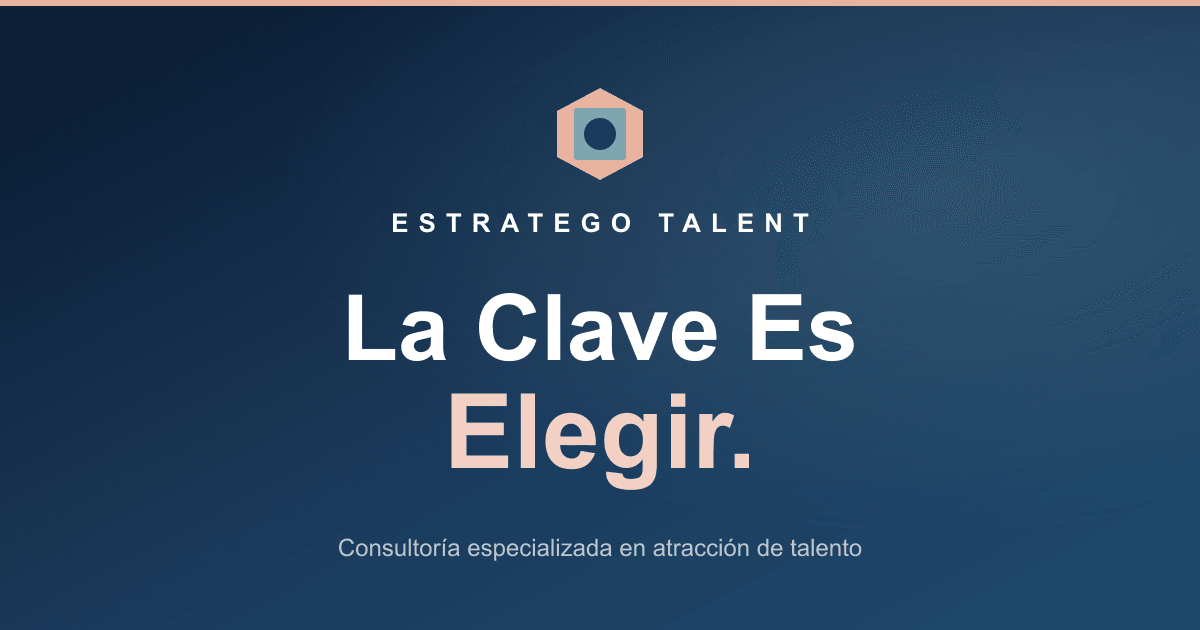
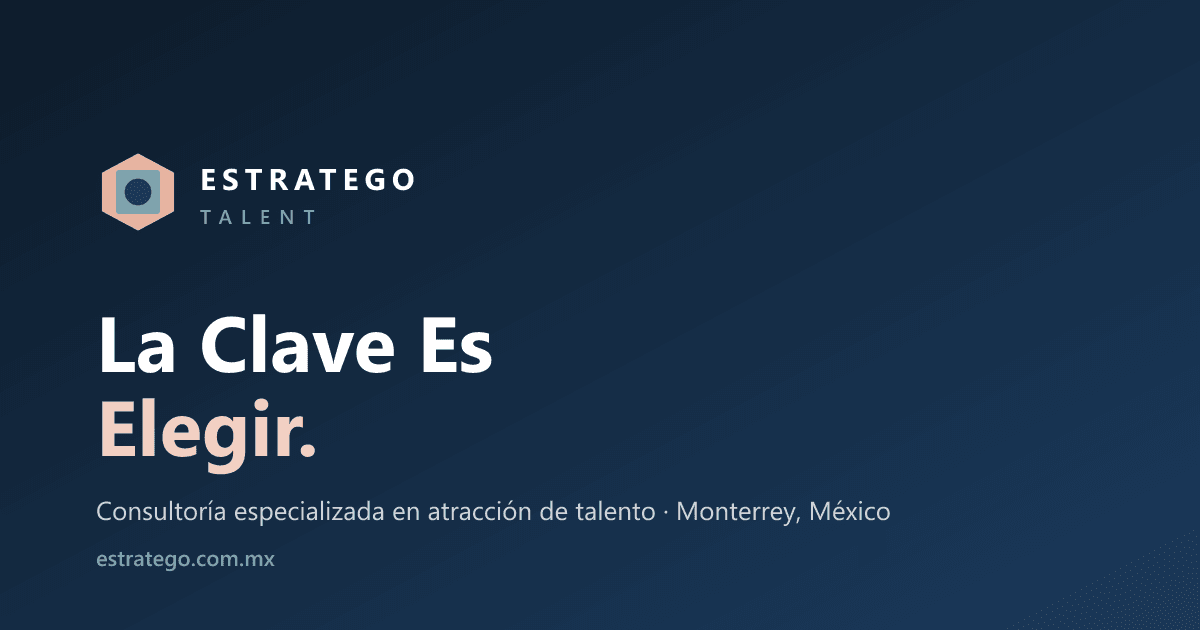
Reemplazar copy obsoleto 'No llenamos vacantes' por 'La Clave Es Elegir' en share/meta, OG images y body copy

diff --git a/index.html b/index.html
@@ -13,18 +13,18 @@
 <meta property="og:type" content="website">
 <meta property="og:url" content="https://estratego.com.mx/">
 <meta property="og:title" content="Estratego Talent — Consultoría especializada en atracción de talento">
-<meta property="og:description" content="No llenamos vacantes. Construimos equipos. Metodología propia para encontrar el talento exacto que cada organización necesita.">
+<meta property="og:description" content="La Clave Es Elegir. Consultoría especializada en atracción de talento gerencial y directivo, con metodología propia para encontrar al talento exacto que cada organización necesita.">
 <meta property="og:locale" content="es_MX">
 <meta property="og:site_name" content="Estratego Talent">
 <meta property="og:image" content="https://estratego.com.mx/og-cover.png">
 <meta property="og:image:width" content="1200">
 <meta property="og:image:height" content="630">
-<meta property="og:image:alt" content="Estratego Talent — No llenamos vacantes. Construimos equipos.">
+<meta property="og:image:alt" content="Estratego Talent — La Clave Es Elegir.">
 <!-- Twitter Card -->
 <meta name="twitter:card" content="summary_large_image">
 <meta name="twitter:image" content="https://estratego.com.mx/og-cover.png">
 <meta name="twitter:title" content="Estratego Talent — Consultoría especializada en atracción de talento">
-<meta name="twitter:description" content="No llenamos vacantes. Construimos equipos. Reclutamiento especializado para mandos medios y C-Suite en México y LATAM.">
+<meta name="twitter:description" content="La Clave Es Elegir. Reclutamiento especializado para mandos medios y C-Suite en México y LATAM.">
 <!-- ── Verificación de buscadores ──────────────────────────────
      Google: lo más fácil es verificar la propiedad en Search Console
      por el método "Google Analytics" (este sitio ya tiene GA4
@@ -328,7 +328,7 @@ footer{padding:32px 36px;background:#091929;display:flex;justify-content:space-b
   "areaServed": ["México", "Latinoamérica", "Estados Unidos"],
   "knowsLanguage": ["es", "en"],
   "foundingDate": "2004",
-  "slogan": "No llenamos vacantes. Construimos equipos.",
+  "slogan": "La Clave Es Elegir.",
   "serviceType": [
     "Reclutamiento y selección",
     "Desarrollo organizacional",

diff --git a/reclutamiento-y-seleccion-monterrey.html b/reclutamiento-y-seleccion-monterrey.html
@@ -75,7 +75,7 @@ h3{font-family:'Plus Jakarta Sans',sans-serif!important;font-weight:700!importan
     <a class="btn btn-sal" href="https://portal.estratego.com.mx/contacto-empresas" style="margin-top:22px">Solicitar propuesta sin costo →</a>
   </div></header>
   <div class="wrap">
-    <h2>¿Qué hacemos?</h2><p>En Estratego Talent nos especializamos en <strong>reclutamiento y selección de personal especializado, gerencial y directivo</strong> para empresas en Monterrey, San Pedro, Apodaca, Santa Catarina y todo Nuevo León. No llenamos vacantes: construimos equipos.</p>
+    <h2>¿Qué hacemos?</h2><p>En Estratego Talent nos especializamos en <strong>reclutamiento y selección de personal especializado, gerencial y directivo</strong> para empresas en Monterrey, San Pedro, Apodaca, Santa Catarina y todo Nuevo León. La clave es elegir: ayudamos a las empresas a construir equipos sólidos con el talento exacto que necesitan.</p>
       <p>Cada proceso incluye definición del perfil real (no el de papel), búsqueda activa de candidatos pasivos, entrevistas por competencias, pruebas psicométricas y verificación de referencias.</p><h2>Industrias que atendemos</h2><ul>
         <li>Manufactura y producción</li>
         <li>Servicios financieros y fintech</li>
